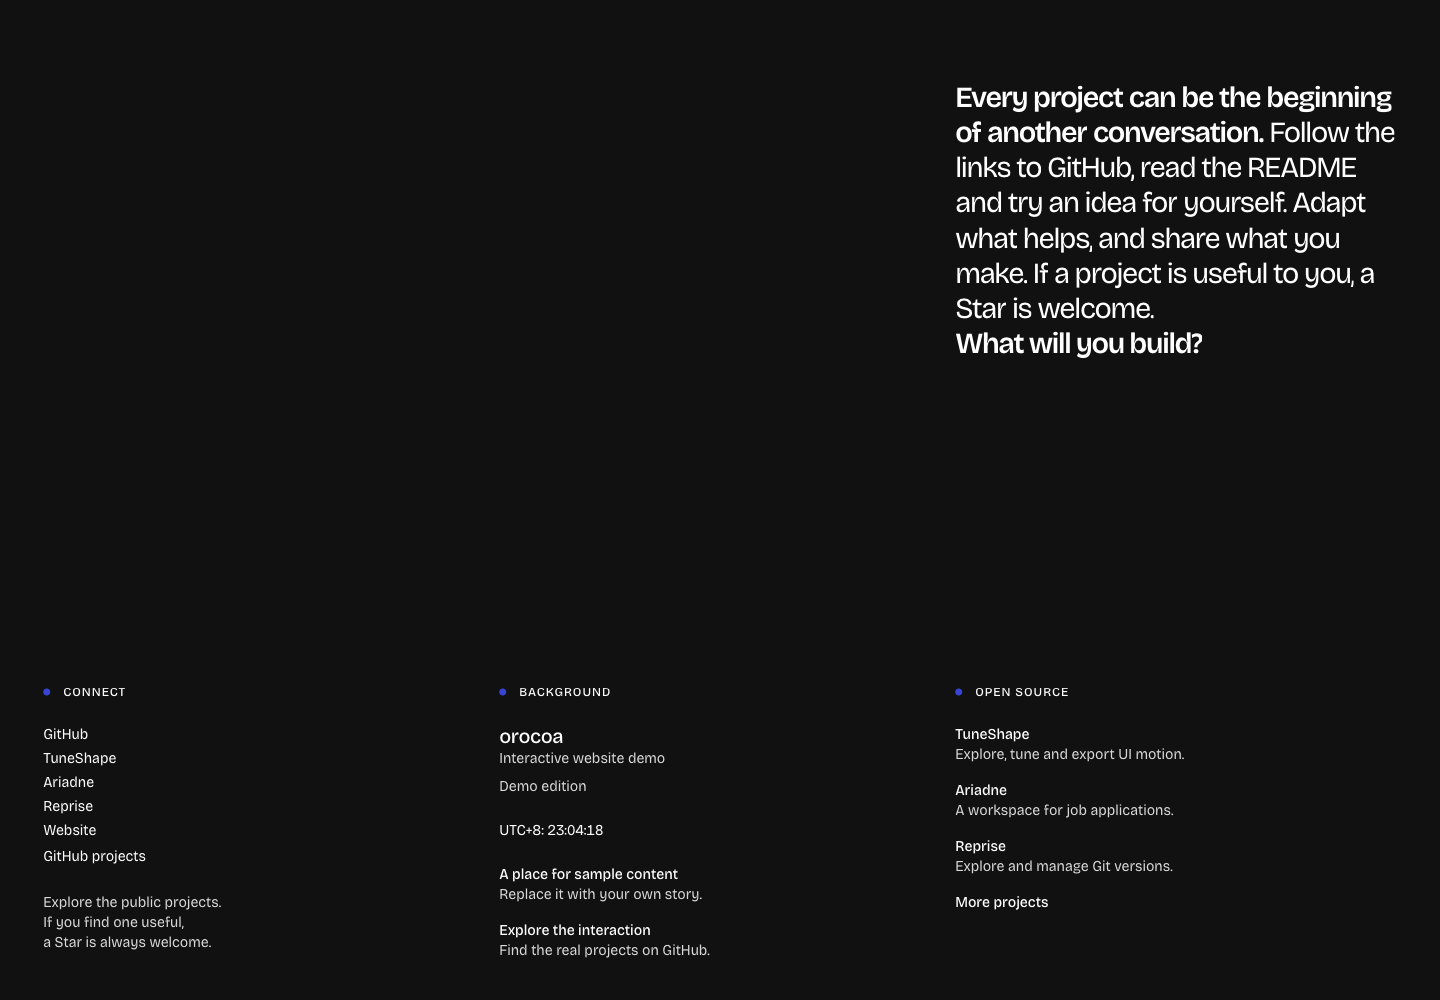
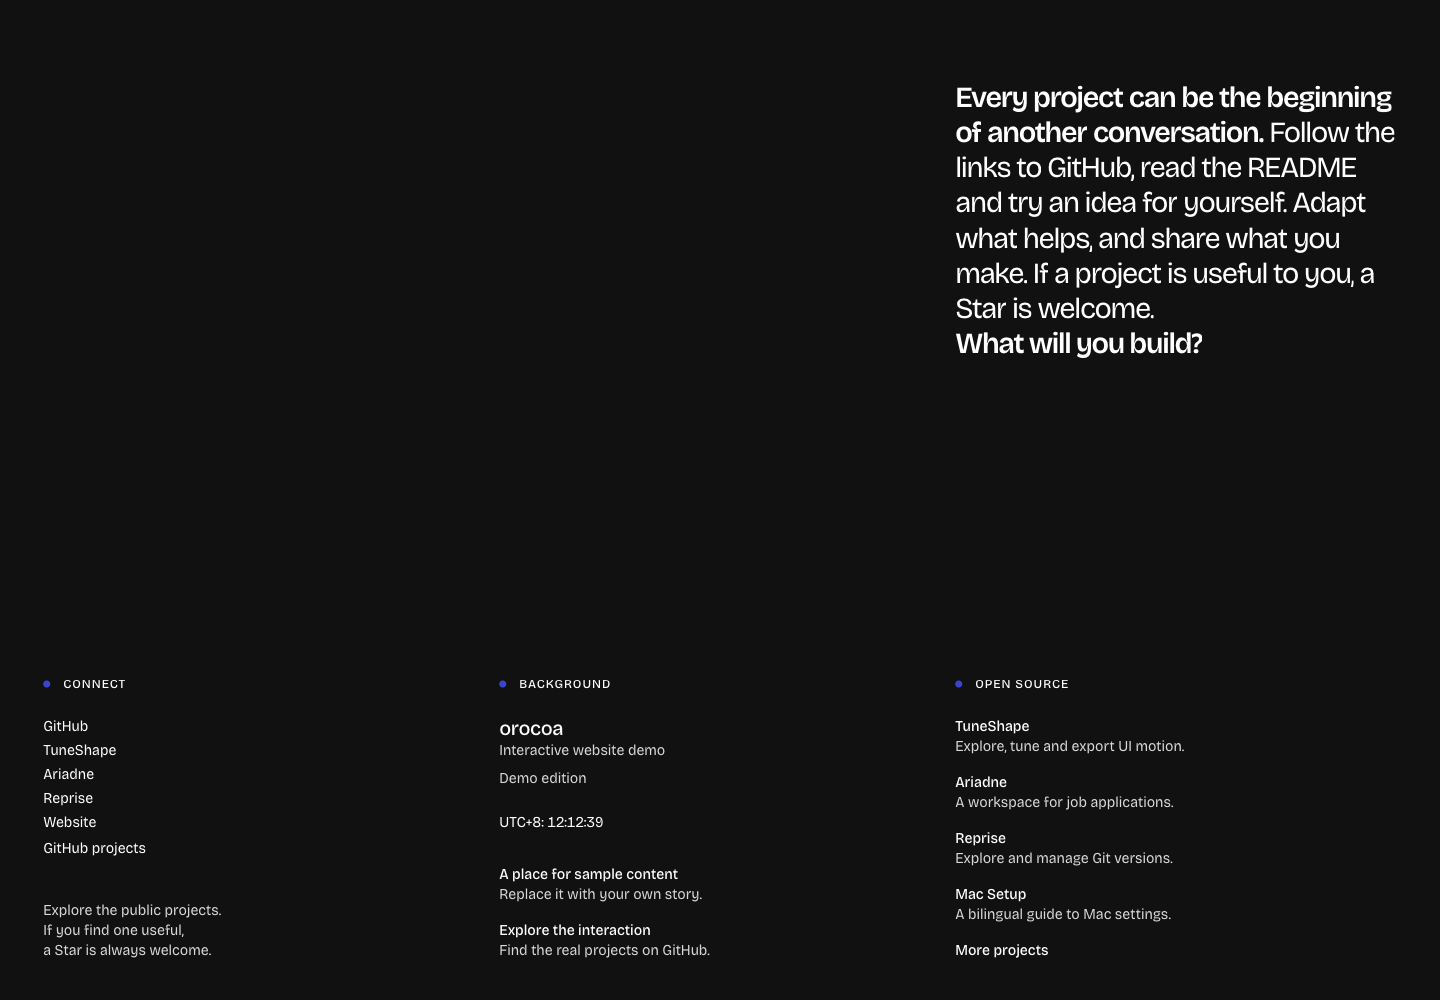
Add Mac Setup to the footer and align profile columns

diff --git a/dist/index.html b/dist/index.html
@@ -126,6 +126,7 @@
               <li data-recommendation="TuneShape"><a href="https://github.com/orocoa/TuneShape" target="_blank" rel="noopener noreferrer"><strong>TuneShape</strong><span>Explore, tune and export UI motion.</span></a></li>
               <li data-recommendation="Ariadne"><a href="https://github.com/orocoa/Ariadne" target="_blank" rel="noopener noreferrer"><strong>Ariadne</strong><span>A workspace for job applications.</span></a></li>
               <li data-recommendation="Reprise"><a href="https://github.com/orocoa/Reprise" target="_blank" rel="noopener noreferrer"><strong>Reprise</strong><span>Explore and manage Git versions.</span></a></li>
+              <li data-recommendation="Mac Setup"><a href="https://github.com/orocoa/macbook-setup-recommendations" target="_blank" rel="noopener noreferrer"><strong>Mac Setup</strong><span>A bilingual guide to Mac settings.</span></a></li>
               <li data-recommendation="More projects"><a href="https://github.com/orocoa" target="_blank" rel="noopener noreferrer"><strong>More projects</strong></a></li>
             </ul>
           </div>

diff --git a/dist/profile/profile.css b/dist/profile/profile.css
@@ -136,6 +136,10 @@
 }
 .profile-statement :is(strong, em), .profile-word.is-emphasized { font-style: normal; font-weight: 600; color: var(--vi-inverse-text); }
 @media (min-width:701px), (min-aspect-ratio:3/4) {
+  html[data-device="desktop"] .profile-column { display: flex; flex-direction: column; }
+  html[data-device="desktop"] .profile-details { display: flex; flex: 1; flex-direction: column; }
+  html[data-device="desktop"] .profile-awards { flex: 1; align-content: space-between; }
+  html[data-device="desktop"] .profile-details :is(.profile-timezone, .profile-education) { margin-top: auto; padding-top: var(--profile-block-gap); }
   html[data-device="desktop"] .profile-statement:nth-child(1) { grid-column: 1 / span 6; }
   html[data-device="desktop"] .profile-statement:nth-child(2) { grid-column: 9 / span 7; }
   html[data-device="desktop"] .profile-statement:nth-child(3) { grid-column: 17 / span 8; }
